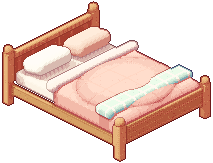
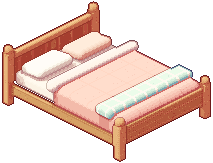
床去掉被子上的鼓包、枕头贴着床垫；吉他支架挪到背后；凳子四条腿都露得出来；洗衣机加高、右下角蓝红绿三个点

diff --git a/scripts/px_furniture.py b/scripts/px_furniture.py
@@ -131,14 +131,13 @@ def bed(s):
     B(s, -1.3, 1.3, 0.5, 0.85, -1.78, 1.78, mattress, "mattress", round=0.1)
     # 被子：加厚、蓬起来——上面鼓一个大软包，四边圆着垂下去
     B(s, -1.38, 1.38, 0.42, 1.02, -0.5, 1.86, quilt, "quilt", round=0.2)
-    s.add(ellipsoid(1.28, 0.16, 1.1).at(0, 1.0, 0.68), quilt, "quilt")
     s.decal(lambda p: (np.abs(((p[..., 0] + 1.38) / 0.69) % 1 - 0.5) > 0.47)
             | (np.abs(((p[..., 2] + 1.18) / 0.59) % 1 - 0.5) > 0.47), quilt_ln, "quilt")
     s.add(capsule(np.array([-1.32, 1.02, -0.46]), np.array([1.32, 1.02, -0.46]), 0.15), fold, "fold")
     # 方枕头，鼓鼓的：圆角很大的盒子 + 中间再鼓一点
     for x, m, g, zz in ((-0.64, pillow, "pillowA", -1.34), (0.64, pillow2, "pillowB", -1.28)):
-        s.add(box(0.56, 0.2, 0.34, round=0.18).rot("x", -14).at(x, 1.08, zz), m, g)
-        s.add(ellipsoid(0.46, 0.14, 0.26).rot("x", -14).at(x, 1.14, zz + 0.02), m, g)
+        # 枕头直接压在床垫上（底面贴着床垫顶 0.85），扁一点，下面就不会有一大块影子
+        s.add(box(0.56, 0.13, 0.34, round=0.12).rot("x", -8).at(x, 0.97, zz), m, g)
     B(s, -1.42, 1.42, 0.9, 1.14, 1.0, 1.52, throw, "throw", round=0.1)
     s.decal(lambda p: (np.abs(((p[..., 0] + 1.42) / 0.355) % 1 - 0.5) < 0.1)
             | (np.abs(((p[..., 2] + 0.26) / 0.26) % 1 - 0.5) < 0.09), throw_ln, "throw")
@@ -286,15 +285,17 @@ def stool(s):
     knit = M("knit", "#E4AE86", steps=4)
     legm = wood("leg", "#D2A06A")
     ring = wood("ring", "#B98655")
-    s.add(cylinder(0.82, 0.14, round=0.06).at(0, 0.56, 0), legm, "board")
-    s.add(lathe([(0, 0.0), (0.78, 0.0), (0.84, 0.06), (0.7, 0.18), (0, 0.22)]).at(0, 0.68, 0), seat, "seat")
+    # 坐面收小一点，腿往外撇到坐面外面——四条腿从上面看都露得出来
+    s.add(cylinder(0.6, 0.12, round=0.05).at(0, 0.58, 0), legm, "board")
+    s.add(lathe([(0, 0.0), (0.56, 0.0), (0.62, 0.05), (0.5, 0.16), (0, 0.2)]).at(0, 0.69, 0), seat, "seat")
     s.decal(lambda p: (np.abs(((np.arctan2(p[..., 2], p[..., 0]) / math.tau * 20) % 1) - 0.5) < 0.12) & (rad(p) > 0.25), knit, "seat")
     # 四条腿，斜着往外撇，前后左右各一条都看得见
-    for a in (0, 90, 180, 270):
-        x = 0.58 * math.cos(math.radians(a))
-        z = 0.58 * math.sin(math.radians(a))
-        s.add(round_cone(np.array([x * 1.22, 0.0, z * 1.22]), np.array([x, 0.58, z]), 0.06, 0.07), legm, "leg%d" % a)
-    s.add(torus(0.6, 0.035).at(0, 0.22, 0), ring, "ring")
+    # 四条腿错开 20°：正方形摆的话等距下前后两条腿在同一条竖线上，后面那条被前面挡住
+    for a in (20, 110, 200, 290):
+        x = 0.42 * math.cos(math.radians(a))
+        z = 0.42 * math.sin(math.radians(a))
+        s.add(round_cone(np.array([x * 2.0, 0.0, z * 2.0]), np.array([x, 0.6, z]), 0.055, 0.07), ring, "leg%d" % a)
+    s.add(torus(0.62, 0.028).at(0, 0.2, 0), ring, "ring")
 
 
 @item("desk", "书桌", 3, 2, 0.9)
@@ -415,18 +416,19 @@ def washer(s):
     glass = M("glass", "#8FC3DE", steps=5, gloss=1.0)
     suds = M("suds", "#FFFFFF", steps=3)
     btn = M("btn", "#F2A38E", steps=3)
-    kick = M("kick", "#E6E2DA", steps=4)
-    # 她：下面太短 → 机身加高，门下面留一截踢脚板和过滤器小门
-    B(s, -0.8, 0.8, 0.0, 1.5, -0.75, 0.75, body, "body", round=0.1)
-    s.decal(lambda p: (p[..., 2] > 0.73) & (p[..., 1] > 0.5), panel, "body")
-    s.decal(lambda p: (p[..., 2] > 0.73) & (p[..., 1] < -0.55), kick, "body")
-    s.decal(lambda p: (p[..., 2] > 0.73) & (p[..., 1] < -0.58) & (p[..., 1] > -0.7) & (p[..., 0] > 0.35) & (p[..., 0] < 0.65), ring, "body")
-    s.add(cylinder(0.08, 0.05).rot("x", 90).at(0.45, 1.36, 0.75), ring, "dial")
+    dots = [M("d%d" % i, c, steps=3) for i, c in enumerate(("#8EC3E6", "#F29A8E", "#9ED3A3"))]
+    # 她：下面还要增高，白色的 → 机身 1.8 高，门以下留一大截白
+    B(s, -0.8, 0.8, 0.0, 1.8, -0.75, 0.75, body, "body", round=0.1)
+    s.decal(lambda p: (p[..., 2] > 0.73) & (p[..., 1] > 0.62), panel, "body")
+    s.add(cylinder(0.08, 0.05).rot("x", 90).at(0.45, 1.66, 0.75), ring, "dial")
     for x in (-0.55, -0.35, -0.15):
-        s.add(box(0.06, 0.03, 0.02, round=0.01).at(x, 1.38, 0.76), btn, "btn")
-    s.add(torus(0.4, 0.06, axis="z").at(0, 0.7, 0.76), ring, "door")
-    s.add(cylinder(0.36, 0.03).rot("x", 90).at(0, 0.7, 0.72), glass, "glass")
+        s.add(box(0.06, 0.03, 0.02, round=0.01).at(x, 1.68, 0.76), btn, "btn")
+    s.add(torus(0.4, 0.06, axis="z").at(0, 1.0, 0.76), ring, "door")
+    s.add(cylinder(0.36, 0.03).rot("x", 90).at(0, 1.0, 0.72), glass, "glass")
     s.decal(lambda p: speckle(p, 12, 0.3, seed=2) & (p[..., 2] < 0.0), suds, "glass")
+    # 右下角蓝、红、绿三个小点
+    for i, x in enumerate((0.38, 0.52, 0.66)):
+        s.add(sphere(0.045).at(x, 0.2, 0.75), dots[i], "dot%d" % i)
 
 
 @item("toilet", "马桶", 2, 2, 1.0)
@@ -1133,10 +1135,12 @@ def guitar_item(s):
     for k in range(3):
         x = -0.03 + k * 0.03
         s.add(capsule(np.array([x, 0.3, 0.11]), np.array([x * 0.8, 1.8, 0.075]), 0.005), string, "str")
-    s.add(capsule(np.array([-0.25, 0, 0.25]), np.array([-0.2, 0.3, 0.05]), 0.02), stand, "stand")
-    s.add(capsule(np.array([0.25, 0, 0.25]), np.array([0.2, 0.3, 0.05]), 0.02), stand, "stand")
-    s.add(capsule(np.array([-0.25, 0.28, 0.12]), np.array([0.25, 0.28, 0.12]), 0.018), stand, "stand")
-    s.add(capsule(np.array([0, 0, -0.35]), np.array([0, 1.1, -0.03]), 0.02), stand, "stand")
+    # 支架全在琴背后（跟落地镜一样）：底下一根横托接住琴底，两条腿往后撑，一根竖杆顶住琴颈
+    s.add(capsule(np.array([-0.22, 0.06, -0.12]), np.array([0.22, 0.06, -0.12]), 0.02), stand, "stand")
+    for x in (-0.22, 0.22):
+        s.add(capsule(np.array([x, 0.06, -0.12]), np.array([x * 1.2, 0.0, -0.5]), 0.02), stand, "stand")
+    s.add(capsule(np.array([0, 0.0, -0.5]), np.array([0, 1.15, -0.1]), 0.02), stand, "stand")
+    s.add(capsule(np.array([-0.08, 1.15, -0.1]), np.array([0.08, 1.15, -0.1]), 0.02), stand, "stand")
 
 
 # ═══════════════════════════════ 小物件
